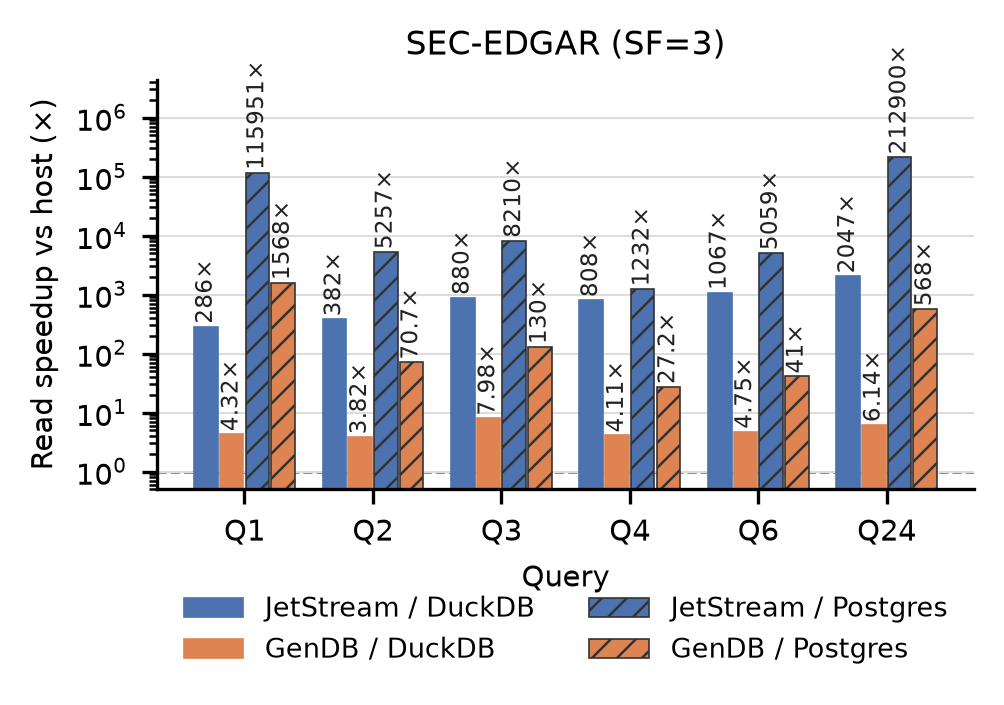
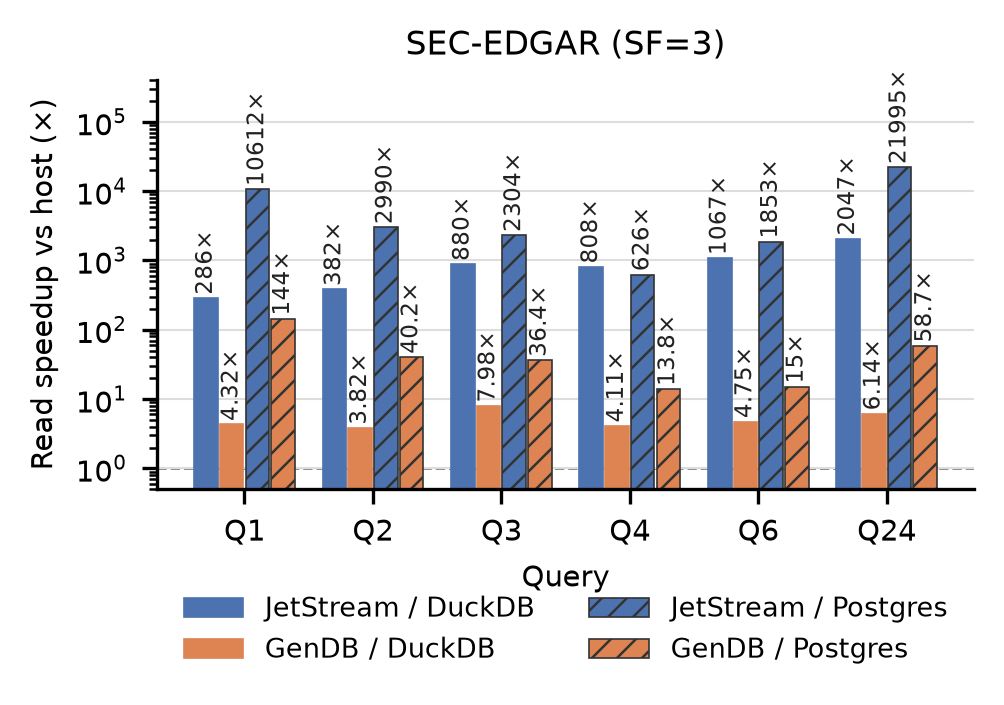
sec_edgar: tuned, verified Postgres baseline for the read-speedup figure
The Postgres host times in the figure were under-tuned: work_mem=64MB made
Q1's sort and Q24's anti join spill to disk, and Q24 sorted all of pre in
every worker. pg_tune_base.py times each query under work_mem, table-level
parallel_workers and jit settings, picks the fastest, runs 1 warmup + 3 hot,
and checks the result against ground_truth/. Q1 also gets a covering index
pre(stmt, rfile, adsh) INCLUDE (line) WHERE stmt IS NOT NULL, so COUNT(DISTINCT)
reads presorted input (10.6 s -> 1.8 s). Q24 uses a parallel hash anti join
(merge join off, work_mem 2GB). All six results match ground truth.

The figure now divides both JetStream and GenDB by these Postgres times; the
DuckDB host times are still GenDB's multithreaded run.

diff --git a/benchmarks/sec_edgar/pg_tune_base.py b/benchmarks/sec_edgar/pg_tune_base.py
@@ -1,0 +1,103 @@
+#!/usr/bin/env python3
+"""Find the fastest PostgreSQL configuration for each SEC-EDGAR default-parameter query.
+
+usage: pg_tune_base.py PORT QUERY_DIR GROUND_TRUTH_DIR OUT_CSV
+
+For every query, each config (work_mem, table-level parallel_workers, jit) is
+timed once with EXPLAIN ANALYZE (statement_timeout 180 s). The fastest config is
+then run 1 warmup + 3 hot (GenDB's protocol), and its result is compared to the
+ground-truth CSV. Writes one row per query with every config's time.
+"""
+import csv
+import statistics
+import sys
+import time
+
+import psycopg2
+
+port, qdir, gtdir, out = sys.argv[1:5]
+TABLES = ["num", "pre", "sub", "tag"]
+CONFIGS = [  # name, work_mem, table parallel_workers (None = Postgres picks), jit
+    ("wm64MB_auto", "64MB", None, "on"),
+    ("wm1GB_auto", "1GB", None, "on"),
+    ("wm1GB_auto_nojit", "1GB", None, "off"),
+    ("wm4GB_auto", "4GB", None, "on"),
+    ("wm4GB_auto_nojit", "4GB", None, "off"),
+    ("wm256MB_w32", "256MB", 32, "on"),
+    ("wm1GB_w32", "1GB", 32, "on"),
+    ("wm1GB_w32_nojit", "1GB", 32, "off"),
+]
+
+conn = psycopg2.connect(host="127.0.0.1", port=port, user="postgres",
+                        password="postgres", dbname="sec_edgar")
+conn.autocommit = True
+cur = conn.cursor()
+cur.execute("SET max_parallel_workers_per_gather = 32")
+cur.execute("SET statement_timeout = '180s'")
+
+
+def apply(cfg):
+    _, wm, workers, jit = cfg
+    cur.execute(f"SET work_mem = '{wm}'")
+    cur.execute(f"SET jit = {jit}")
+    for t in TABLES:
+        if workers is None:
+            cur.execute(f"ALTER TABLE {t} RESET (parallel_workers)")
+        else:
+            cur.execute(f"ALTER TABLE {t} SET (parallel_workers = {workers})")
+
+
+def canon(rows):
+    out = []
+    for r in rows:
+        out.append(tuple(f"{float(v):.4g}" if isinstance(v, float) or type(v).__name__ == "Decimal"
+                         else ("" if v is None else str(v)) for v in r))
+    return sorted(out)
+
+
+def ground_truth(q):
+    with open(f"{gtdir}/q{q}.csv", newline="") as f:
+        rows = list(csv.reader(f))[1:]
+
+    def norm(v):
+        try:
+            if "." in v or "e" in v.lower():
+                return f"{float(v):.4g}"
+        except ValueError:
+            pass
+        return v
+    return sorted(tuple(norm(v) for v in r) for r in rows)
+
+
+results = []
+for q in [1, 2, 3, 4, 6, 24]:
+    sql = open(f"{qdir}/q{q}.sql").read().strip().rstrip(";")
+    per_cfg = {}
+    for cfg in CONFIGS:
+        apply(cfg)
+        try:
+            cur.execute("EXPLAIN (ANALYZE, FORMAT JSON) " + sql)
+            per_cfg[cfg[0]] = cur.fetchone()[0][0]["Execution Time"]
+        except psycopg2.errors.QueryCanceled:
+            per_cfg[cfg[0]] = float("inf")
+        print(f"Q{q} {cfg[0]}: {per_cfg[cfg[0]]:.1f} ms", flush=True)
+    best = min(CONFIGS, key=lambda c: per_cfg[c[0]])
+    apply(best)
+    times, rows = [], None
+    for _ in range(4):
+        t = time.perf_counter()
+        cur.execute(sql)
+        rows = cur.fetchall()
+        times.append((time.perf_counter() - t) * 1e3)
+    ok = canon(rows) == ground_truth(q)
+    row = {"query": f"Q{q}", "best_config": best[0], "hot_avg_ms": round(statistics.mean(times[1:]), 3),
+           "hot_ms": ";".join(f"{x:.3f}" for x in times[1:]), "rows": len(rows), "matches_ground_truth": ok}
+    row.update({f"explain_ms_{k}": round(v, 1) for k, v in per_cfg.items()})
+    results.append(row)
+    print(row, flush=True)
+for t in TABLES:
+    cur.execute(f"ALTER TABLE {t} RESET (parallel_workers)")
+with open(out, "w", newline="") as f:
+    w = csv.DictWriter(f, fieldnames=list(results[0]))
+    w.writeheader()
+    w.writerows(results)
